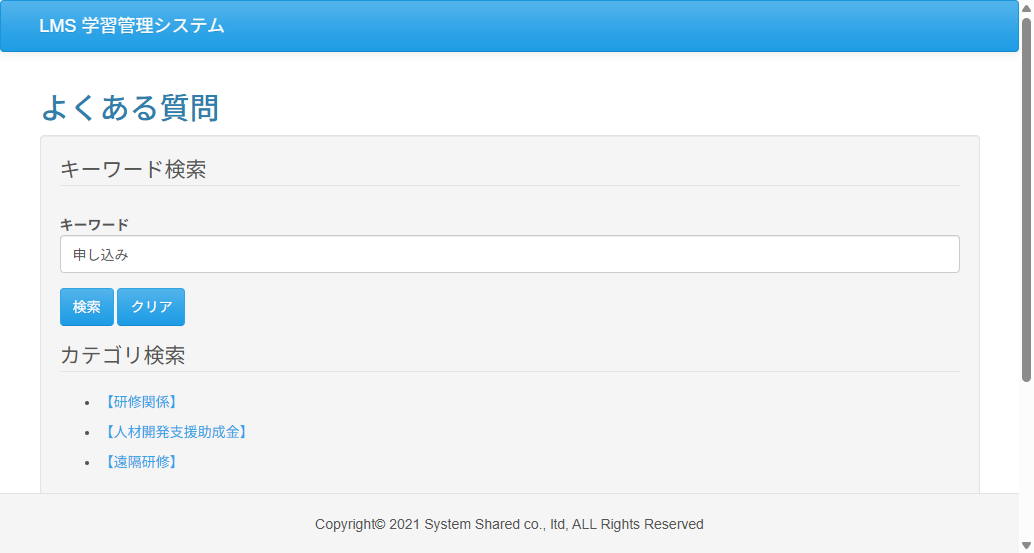
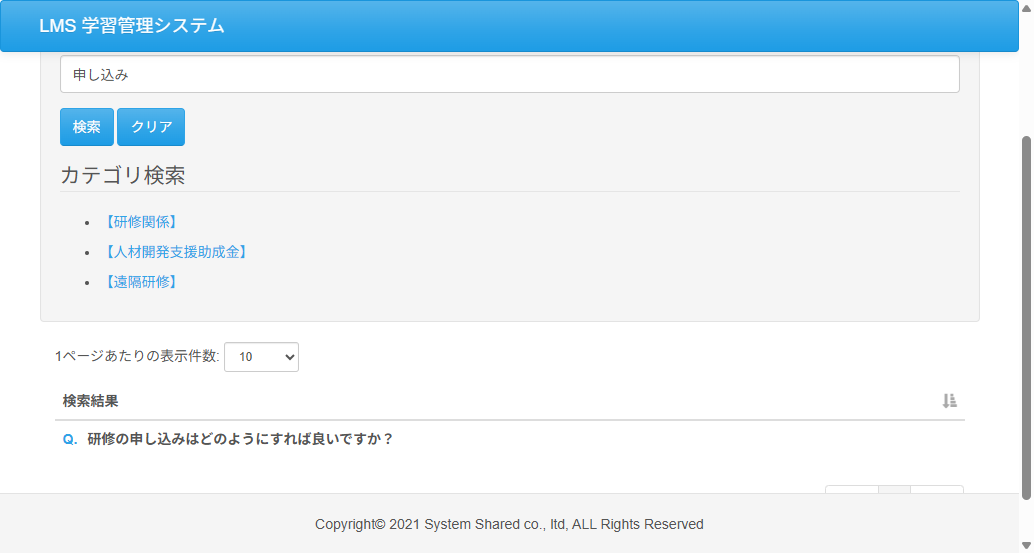
fix: Case05及びCase06のテストコード修正
Case05,Case06のエビデンス作成

diff --git a/test_code_creation_leehwangyu/src/test/java/jp/co/sss/lms/ct/f02_faq/Case06.java b/test_code_creation_leehwangyu/src/test/java/jp/co/sss/lms/ct/f02_faq/Case06.java
@@ -4,7 +4,6 @@ import static jp.co.sss.lms.ct.util.WebDriverUtils.*;
 import static org.junit.jupiter.api.Assertions.*;
 
 import java.time.Duration;
-import java.util.List;
 import java.util.Set;
 
 import org.junit.jupiter.api.AfterAll;
@@ -43,12 +42,17 @@ public class Case06 {
 	@DisplayName("テスト01 トップページURLでアクセス")
 	void test01() {
 
+		//トップページURLにアクセス
 		webDriver.get("http://localhost:8080/lms");
 
+		//タイトル「ログイン | LMS」になるまで待機
 		WebDriverWait wait = new WebDriverWait(webDriver, Duration.ofSeconds(30));
 		wait.until(ExpectedConditions.titleIs("ログイン | LMS"));
 
+		//タイトルチェック
 		assertEquals("ログイン | LMS", webDriver.getTitle());
+
+		//Case05_test01エビデンスを取得
 		getEvidence(new Object() {
 		});
 	}
@@ -60,15 +64,25 @@ public class Case06 {
 
 		WebDriverWait wait = new WebDriverWait(webDriver, Duration.ofSeconds(30));
 
+		//環境変数からID/PW取得
 		String id = System.getenv("LMS_ID");
 		String pw = System.getenv("LMS_PW");
 
+		//ID/PW入力
 		webDriver.findElement(By.id("loginId")).sendKeys(id);
 		webDriver.findElement(By.id("password")).sendKeys(pw);
-		webDriver.findElement(By.cssSelector("input[type='submit'][value='ログイン']")).click();
 
+		//ログインボタン押下
+		webDriver.findElement(
+				By.cssSelector("input[type='submit'][value='ログイン']")).click();
+
+		//遷移先が /course/detail になるまで待機
 		wait.until(ExpectedConditions.urlContains("/course/detail"));
+
+		// タイトルチェック
 		assertEquals("コース詳細 | LMS", webDriver.getTitle());
+
+		//Case05_test02エビデンスを取得
 		getEvidence(new Object() {
 		});
 	}
@@ -80,36 +94,55 @@ public class Case06 {
 
 		WebDriverWait wait = new WebDriverWait(webDriver, Duration.ofSeconds(30));
 
+		// 「機能」メニューをクリックしてドロップダウンを開く
 		webDriver.findElement(By.linkText("機能")).click();
+
+		// 「ヘルプ」リンクが表示されるまで待機
 		wait.until(ExpectedConditions.presenceOfElementLocated(By.linkText("ヘルプ")));
+
+		// 「ヘルプ」をクリック
 		webDriver.findElement(By.linkText("ヘルプ")).click();
 
+		// ヘルプ画面のタイトルになるまで待機
 		wait.until(ExpectedConditions.titleIs("ヘルプ | LMS"));
+
+		// タイトルチェック
 		assertEquals("ヘルプ | LMS", webDriver.getTitle());
+
+		//Case05_test03エビデンスを取得
 		getEvidence(new Object() {
 		});
 	}
 
 	@Test
 	@Order(4)
-	@DisplayName("テスト04 「よくある質問」リンクを別タブで開く")
+	@DisplayName("テスト04 「よくある質問」リンクからよくある質問画面を別タブに開く")
 	void test04() {
 
 		WebDriverWait wait = new WebDriverWait(webDriver, Duration.ofSeconds(30));
 
+		// 現在のタブを保持
 		String currentTab = webDriver.getWindowHandle();
+
+		//「よくある質問」リンク押下（別タブ）
 		webDriver.findElement(By.linkText("よくある質問")).click();
 
-		Set<String> tabs = webDriver.getWindowHandles();
-		for (String tab : tabs) {
+		// タブ切り替え
+		Set<String> allTabs = webDriver.getWindowHandles();
+		for (String tab : allTabs) {
 			if (!tab.equals(currentTab)) {
 				webDriver.switchTo().window(tab);
 				break;
 			}
 		}
 
+		//タイトル「よくある質問 | LMS」になるまで待機
 		wait.until(ExpectedConditions.titleIs("よくある質問 | LMS"));
+
+		//タイトルチェック
 		assertEquals("よくある質問 | LMS", webDriver.getTitle());
+
+		//Case05_test04エビデンスを取得
 		getEvidence(new Object() {
 		});
 	}
@@ -118,19 +151,21 @@ public class Case06 {
 	@Order(5)
 	@DisplayName("テスト05 カテゴリ検索で該当カテゴリの検索結果だけ表示")
 	void test05() {
+		WebDriverWait wait = new WebDriverWait(webDriver, Duration.ofSeconds(30));
 
 		// 「研修関係」カテゴリをクリック
 		webDriver.findElement(By.linkText("【研修関係】")).click();
 
-		WebDriverWait wait = new WebDriverWait(webDriver, Duration.ofSeconds(10));
-		wait.until(ExpectedConditions.presenceOfElementLocated(By.cssSelector("table tbody tr")));
+		// 検索結果行が表示される部分へスクロール
+		WebElement resultArea = webDriver.findElement(By.cssSelector("table"));
+		((JavascriptExecutor) webDriver).executeScript("arguments[0].scrollIntoView(true);", resultArea);
 
-		// 質問行を全件取得
-		List<WebElement> questions = webDriver.findElements(By.cssSelector("table tbody tr dl dt"));
+		// タイトル「よくある質問 | LMS」になるまで待機
+		wait.until(ExpectedConditions.titleIs("よくある質問 | LMS"));
 
-		// 1件以上表示されていることだけ確認
-		assertTrue(questions.size() > 0);
-
+		// タイトルチェック
+		assertEquals("よくある質問 | LMS", webDriver.getTitle());
+		// Case06_test05エビデンスを取得
 		getEvidence(new Object() {
 		});
 	}
@@ -139,19 +174,22 @@ public class Case06 {
 	@Order(6)
 	@DisplayName("テスト06 検索結果の質問クリックで回答表示")
 	void test06() {
+		WebDriverWait wait = new WebDriverWait(webDriver, Duration.ofSeconds(30));
 
 		// 1件目の質問をクリック
 		WebElement question = webDriver.findElement(By.cssSelector("table tbody tr dl dt"));
-		// 要素位置までスクロール（他要素に遮られないように）
-		((JavascriptExecutor) webDriver).executeScript(
-				"arguments[0].scrollIntoView(true);", question);
-
 		question.click();
 
 		// 回答要素を取得し、表示状態を確認
 		WebElement answer = webDriver.findElement(By.cssSelector("table tbody tr dl dd"));
 		assertEquals("fs18", answer.getAttribute("class"));
 
+		// タイトル「よくある質問 | LMS」になるまで待機
+		wait.until(ExpectedConditions.titleIs("よくある質問 | LMS"));
+
+		// タイトルチェック
+		assertEquals("よくある質問 | LMS", webDriver.getTitle());
+		// Case06_test06エビデンスを取得
 		getEvidence(new Object() {
 		});
 	}

diff --git a/test_code_creation_leehwangyu/src/test/java/jp/co/sss/lms/ct/f02_faq/Case05.java b/test_code_creation_leehwangyu/src/test/java/jp/co/sss/lms/ct/f02_faq/Case05.java
@@ -4,7 +4,6 @@ import static jp.co.sss.lms.ct.util.WebDriverUtils.*;
 import static org.junit.jupiter.api.Assertions.*;
 
 import java.time.Duration;
-import java.util.List;
 import java.util.Set;
 
 import org.junit.jupiter.api.AfterAll;
@@ -15,7 +14,7 @@ import org.junit.jupiter.api.Order;
 import org.junit.jupiter.api.Test;
 import org.junit.jupiter.api.TestMethodOrder;
 import org.openqa.selenium.By;
-import org.openqa.selenium.WebElement;
+import org.openqa.selenium.JavascriptExecutor;
 import org.openqa.selenium.support.ui.ExpectedConditions;
 import org.openqa.selenium.support.ui.WebDriverWait;
 
@@ -154,6 +153,7 @@ public class Case05 {
 	@Order(5)
 	@DisplayName("テスト05 キーワード検索で該当キーワードのみ表示")
 	void test05() {
+		WebDriverWait wait = new WebDriverWait(webDriver, Duration.ofSeconds(30));
 
 		// キーワード入力
 		webDriver.findElement(By.id("form")).sendKeys("申し込み");
@@ -161,19 +161,15 @@ public class Case05 {
 		// 検索押下
 		webDriver.findElement(By.cssSelector("input[value='検索']")).click();
 
-		WebDriverWait wait = new WebDriverWait(webDriver, Duration.ofSeconds(10));
+		// 検索結果が画面に見えるように、クリアボタンの位置までスクロール
+		((JavascriptExecutor) webDriver).executeScript("window.scrollBy(0, 400);");
 
-		// 検索結果行をすべて取得
-		wait.until(ExpectedConditions.presenceOfElementLocated(
-				By.cssSelector("table tbody tr")));
+		// タイトル「よくある質問 | LMS」になるまで待機
+		wait.until(ExpectedConditions.titleIs("よくある質問 | LMS"));
 
-		List<WebElement> rows = webDriver.findElements(By.cssSelector("table tbody tr dl dt"));
-
-		// 全件が「申し込み」を含むことを確認
-		for (WebElement q : rows) {
-			assertTrue(q.getText().contains("申し込み"));
-		}
-		//Case05_test05エビデンスを取得
+		// タイトルチェック
+		assertEquals("よくある質問 | LMS", webDriver.getTitle());
+		// Case05_test05エビデンスを取得
 		getEvidence(new Object() {
 		});
 	}
@@ -182,6 +178,7 @@ public class Case05 {
 	@Order(6)
 	@DisplayName("テスト06 「クリア」ボタン押下で入力したキーワードを消去")
 	void test06() {
+		WebDriverWait wait = new WebDriverWait(webDriver, Duration.ofSeconds(30));
 
 		// クリアボタン押下
 		webDriver.findElement(By.cssSelector("input[value='クリア']")).click();
@@ -190,7 +187,13 @@ public class Case05 {
 		String value = webDriver.findElement(By.id("form")).getAttribute("value");
 		assertEquals("", value);
 
-		//Case05_test06エビデンスを取得
+		// タイトル「よくある質問 | LMS」になるまで待機
+		wait.until(ExpectedConditions.titleIs("よくある質問 | LMS"));
+
+		// タイトルチェック
+		assertEquals("よくある質問 | LMS", webDriver.getTitle());
+
+		// Case05_test06エビデンスを取得
 		getEvidence(new Object() {
 		});
 	}
